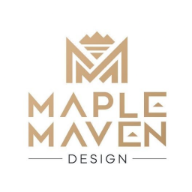
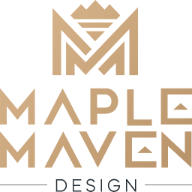
Made the minor changes the client requested

diff --git a/src/components/Footer.tsx b/src/components/Footer.tsx
@@ -11,7 +11,7 @@ const Footer: React.FC = () => {
           <div>
             <div className="mb-6 flex items-center">
               <img
-                src="/new-logo-3.jpg"
+                src="/logo34.png"
                 alt="Maple Maven Logo"
                 className="mr-2"
                 style={{
@@ -19,7 +19,7 @@ const Footer: React.FC = () => {
                   height: '50px',
                 }}
               />
-              <span className="font-serif text-xl">Maple Maven</span>
+              <span className="font-serif text-xl">Maple Maven Designs</span>
             </div>
             <p className="mb-6 text-gray-400">
               Designing Dreams, One Space at a Time. Innovation through imagination.
@@ -134,7 +134,7 @@ const Footer: React.FC = () => {
         </div>
         
         <div className="mt-12 pt-8 border-t border-gray-800 flex justify-between items-center">
-          <p className="text-gray-500">© {new Date().getFullYear()} Maple Maven Design. All rights reserved.</p>
+          <p className="text-gray-500">© {new Date().getFullYear()} Maple Maven Designs. All rights reserved.</p>
           <a href="https://beamxsolutions.com" target="_blank" rel="noopener noreferrer" className="text-gray-500 hover:text-gold transition-colors">
             Developed by BeamX Solutions
           </a>

diff --git a/src/pages/ContactPage.tsx b/src/pages/ContactPage.tsx
@@ -158,7 +158,7 @@ const ContactPage: React.FC = () => {
                     <option value="project-management">Project Management</option>
                     <option value="renovation">Renovation</option>
                     <option value="interior/exterior-design">Interior/Exterior Design</option>
-                    <option value="interior-and-exterior-architecture">Interior and Exterior Architecture</option>
+                    <option value="interior-and-exterior-architecture">Interior Architecture</option>
                     <option value="building-finishing">Building Finishing</option>
                     <option value="3d-graphical-modeling">3D Graphical Modeling</option>
                     <option value="retail-decor-and-furnishings">Retail Decor and Furnishings</option>
@@ -181,7 +181,7 @@ const ContactPage: React.FC = () => {
                 </div>
 
                 {submitStatus === 'success' && (
-                  <p className="text-green-600">Message sent successfully!</p>
+                  <p className="text-green-600">Your message has been sent successfully. We'll get back to you soon!</p>
                 )}
                 {submitStatus === 'error' && (
                   <p className="text-red-600">{errorMessage}</p>

diff --git a/src/pages/ServicesPage.tsx b/src/pages/ServicesPage.tsx
@@ -8,7 +8,7 @@ const ServicesPage: React.FC = () => {
   const serviceProcess = [
     { id: 1, title: "Connect With Us", description: "Start by contacting us via DM, WhatsApp, or call to discuss your space and provide key visual details." },
     { id: 2, title: "Have a Budget", description: "Share your budget post-initial chat to guide the planning process (no visits without this)." },
-    { id: 3, title: "Site Visitation", description: "Plan a site visit based on your location, with potential extra charges outside Awka, Nigeria." },
+    { id: 3, title: "Site Visitation", description: "Plan a site visit based on your location, with potential extra charges outside Awka and Lagos." },
     { id: 4, title: "Design Concept Payment", description: "Make payment via invoice to resume design, based on agreed deliverables like moodboards or 3D models." },
     { id: 5, title: "Presentation & Approval", description: "Review and approve the design presentation, with adjustments if needed before proceeding." },
     { id: 6, title: "Quotation & Payment", description: "Receive and settle quotes following the approved moodboard." },

diff --git a/src/components/ServicesSection.tsx b/src/components/ServicesSection.tsx
@@ -29,8 +29,8 @@ const ServicesSection: React.FC = () => {
       icon: <PaintBucket size={36} />
     },
     {
-      title: "Interior and Exterior Architecture",
-      description: "Innovative architectural solutions that combine aesthetics with functionality for both interiors and exteriors.",
+      title: "Interior Architecture",
+      description: "Innovative architectural solutions that combine aesthetics with functionality for interiors.",
       icon: <Building size={36} />
     },
     {

diff --git a/src/components/Navbar.tsx b/src/components/Navbar.tsx
@@ -36,7 +36,7 @@ const Navbar: React.FC = () => {
           <div className="flex items-center">
             <Link to="/" className="text-2xl font-serif font-bold flex items-center">
               <img
-                src="/new-logo-3.jpg"
+                src="/logo34.png"
                 alt="Maple Maven Logo"
                 className={`mr-2 ${scrolled ? 'filter-gold' : 'filter-white'}`}
                 style={{

diff --git a/src/components/LoadingOverlay.tsx b/src/components/LoadingOverlay.tsx
@@ -6,7 +6,7 @@ const LoadingOverlay: React.FC<{ loading: boolean }> = ({ loading }) => {
   return (
     <div className="fixed inset-0 bg-white flex items-center justify-center z-50 transition-opacity duration-500">
       <img
-        src="/new-logo-3.jpg"
+        src="/logo34.png"
         alt="Loading..."
         className="w-24 h-24 animate-pulse"
       />
